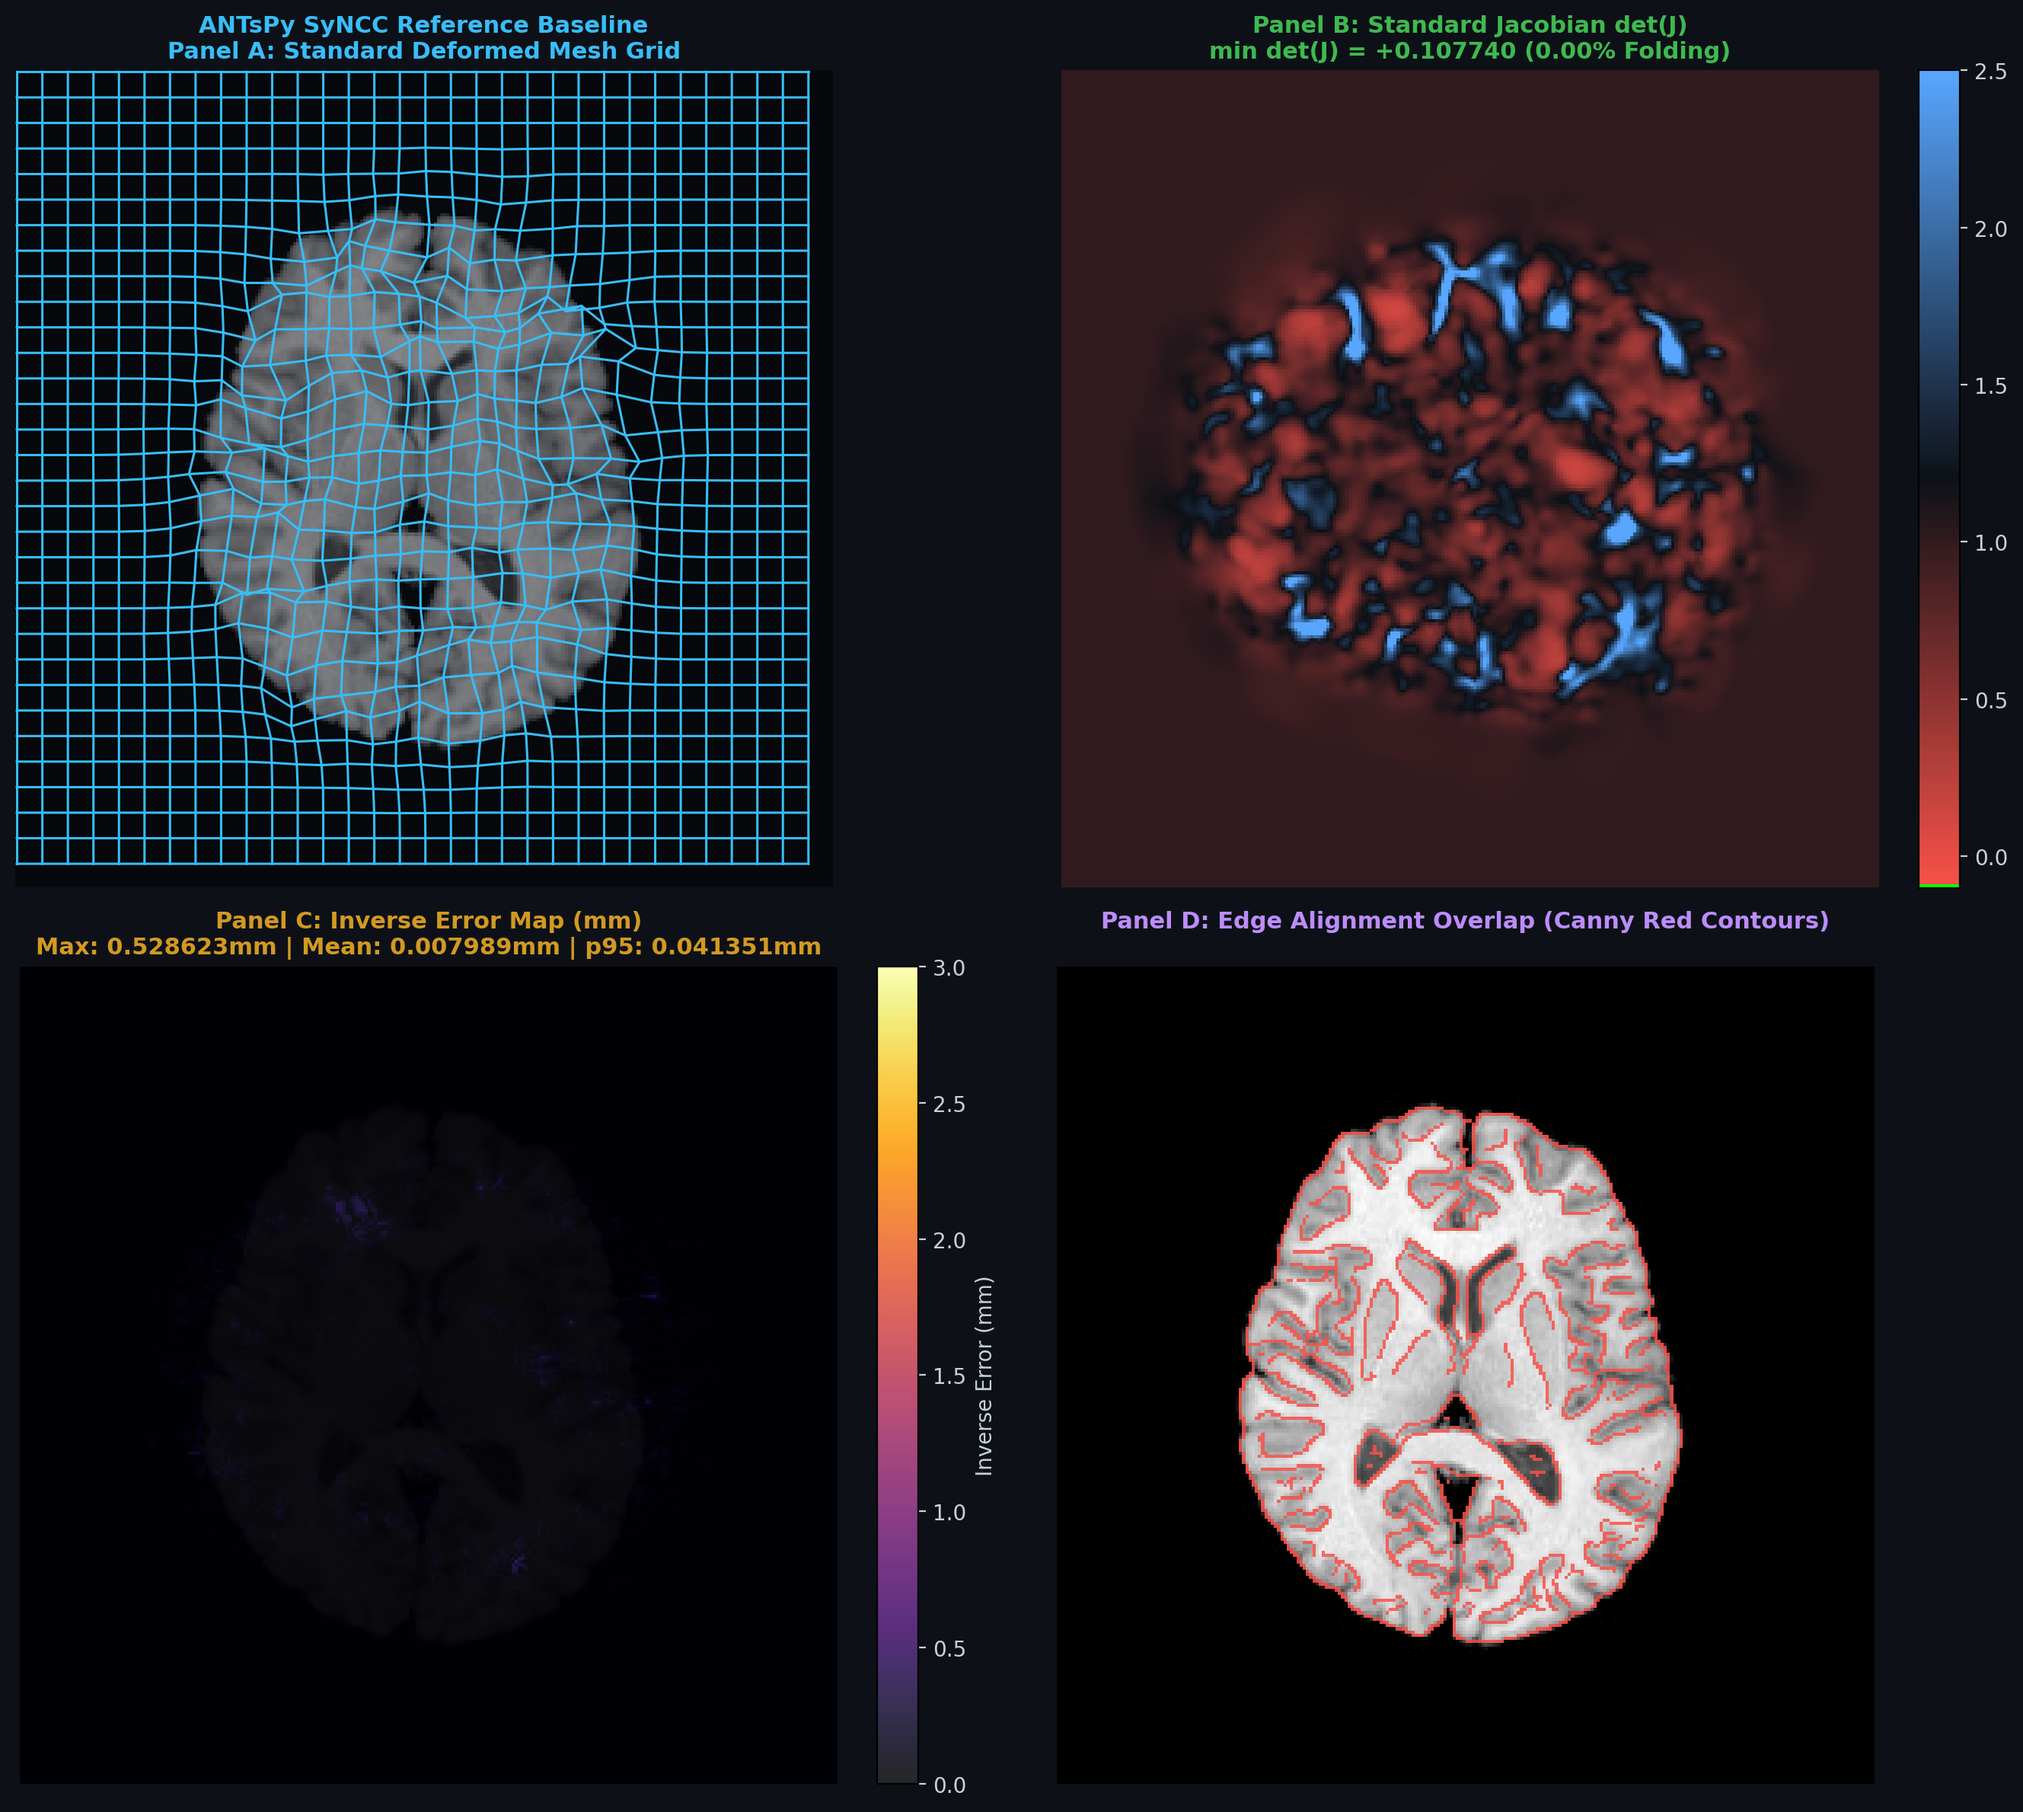
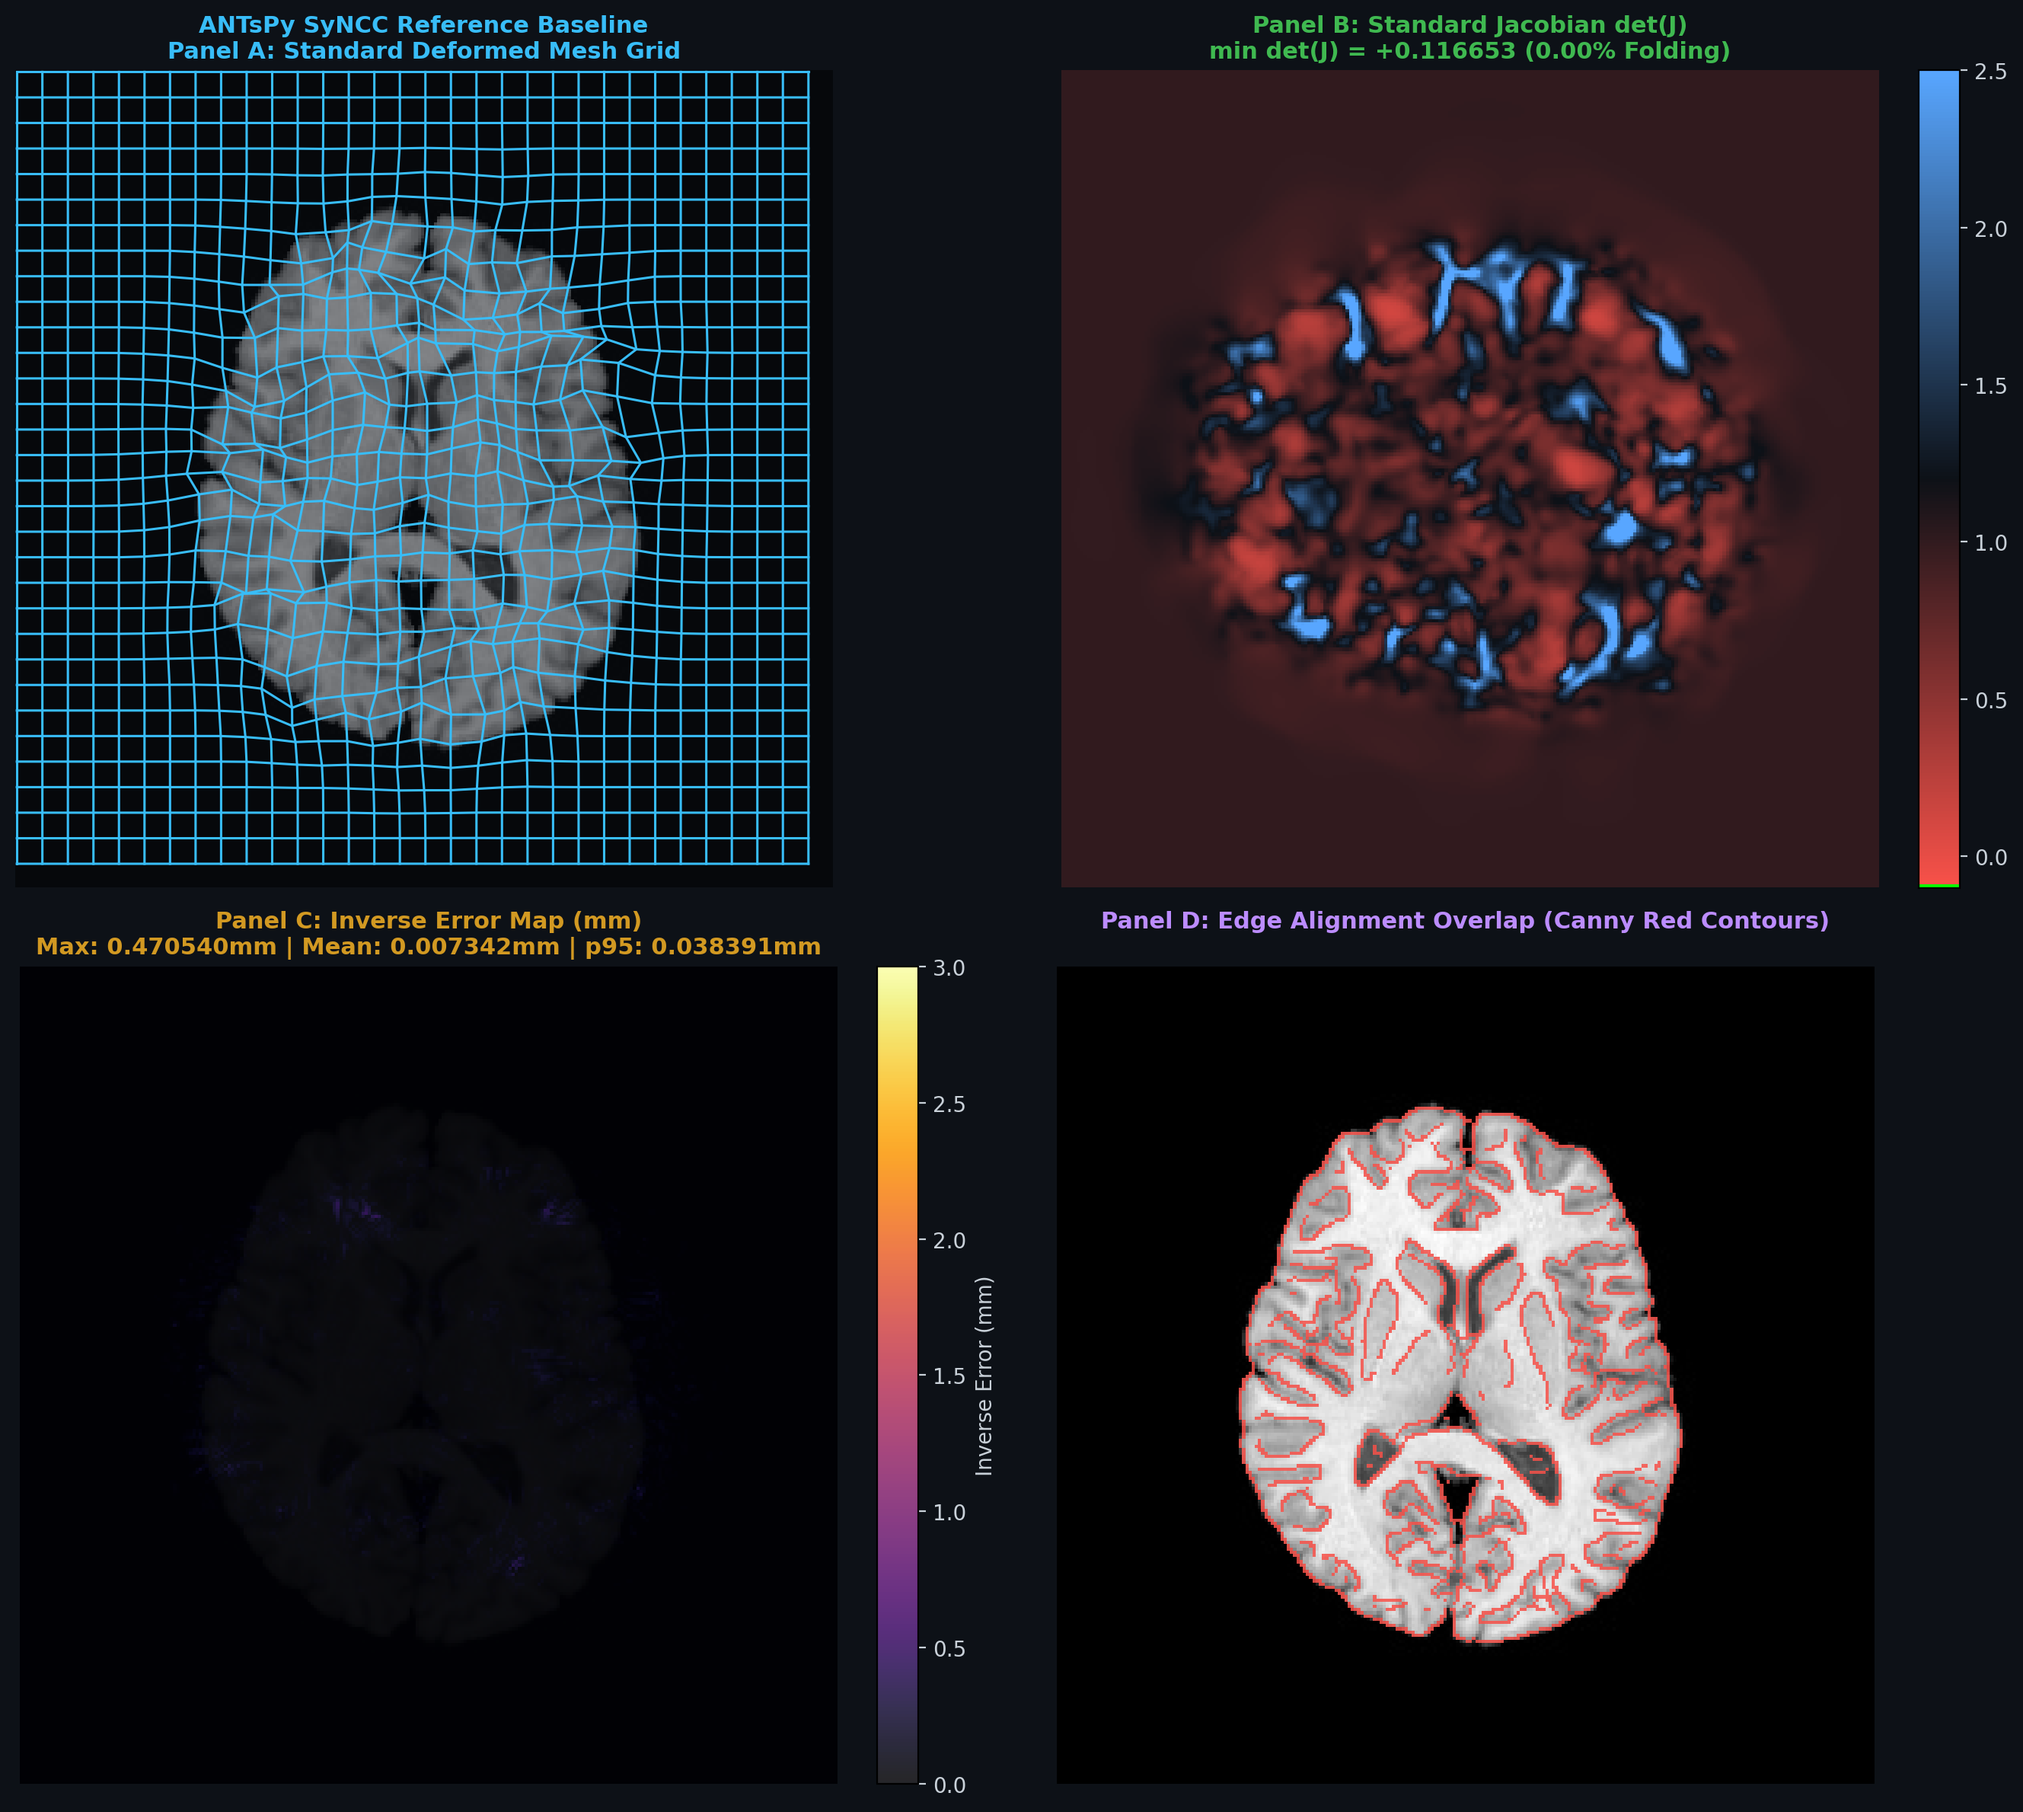
docs(benchmark_vis): update benchmark comparison report assets

diff --git a/benchmark_vis/compare_tvf_syncc_report.html b/benchmark_vis/compare_tvf_syncc_report.html
@@ -33,25 +33,25 @@
             <tbody>
                 <tr style="background: rgba(56, 189, 248, 0.1);">
                     <td><strong>syntx.tvf (total_sigma=0.05)</strong> 🏆</td>
-                    <td style="font-weight:bold; color:#38bdf8;">0.806807</td>
-                    <td style="font-weight:bold; color:#a855f7;">0.877187</td>
-                    <td>5.93 s</td>
-                    <td>-0.360822 (0.0687%)</td>
-                    <td>0.206090 mm</td>
+                    <td style="font-weight:bold; color:#38bdf8;">0.807747</td>
+                    <td style="font-weight:bold; color:#a855f7;">0.871954</td>
+                    <td>17.18 s</td>
+                    <td>-1.308322 (0.0183%)</td>
+                    <td>0.042839 mm</td>
                 </tr>
                 <tr>
                     <td><strong>ANTsPy SyNCC Reference Baseline</strong></td>
-                    <td style="font-weight:bold; color:#38bdf8;">0.808316</td>
-                    <td style="font-weight:bold; color:#a855f7;">0.876223</td>
-                    <td>3.96 s</td>
-                    <td>+0.107740 (0.0000%)</td>
-                    <td>0.007989 mm</td>
+                    <td style="font-weight:bold; color:#38bdf8;">0.813526</td>
+                    <td style="font-weight:bold; color:#a855f7;">0.878058</td>
+                    <td>3.94 s</td>
+                    <td>+0.116653 (0.0000%)</td>
+                    <td>0.007342 mm</td>
                 </tr>
                 <tr>
                     <td><strong>ANTsPy SyN (Mattes) Reference Baseline</strong></td>
-                    <td>0.738102</td>
-                    <td>0.840596</td>
-                    <td>1.12 s</td>
+                    <td>0.736813</td>
+                    <td>0.840324</td>
+                    <td>0.94 s</td>
                     <td>—</td>
                     <td>—</td>
                 </tr>
